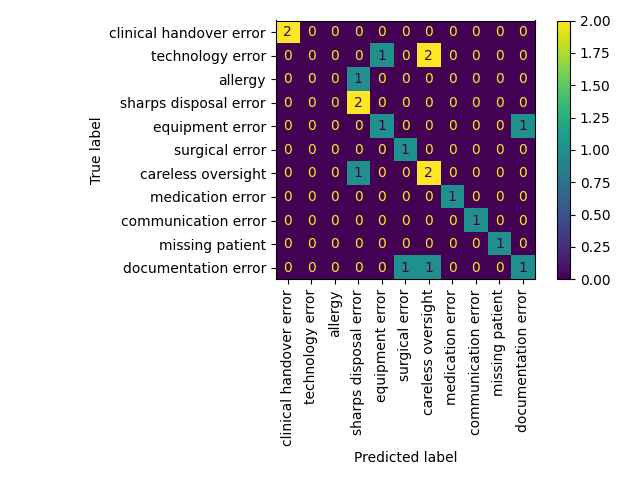
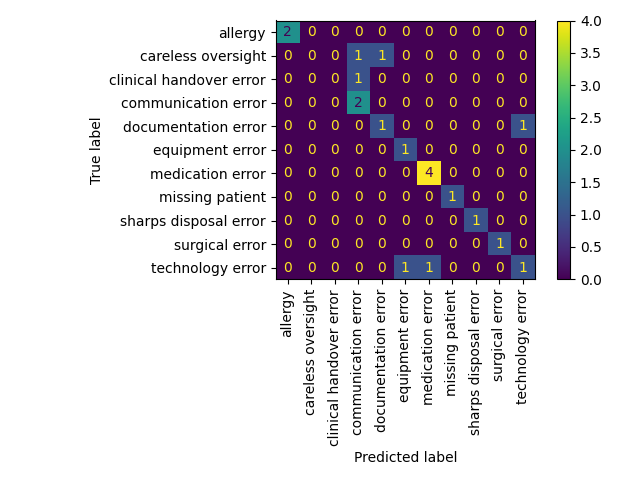
wrote concl

diff --git a/bart.py b/bart.py
@@ -1,6 +1,5 @@
 from transformers import pipeline
 import pandas as pd
-from helper import get_incident_types
 import matplotlib.pyplot as plt
 from sklearn import metrics
 
@@ -9,7 +8,7 @@ targets = list(pd.read_csv("dataset/targets.csv")["incident_type"])
 
 
 classifier = pipeline("zero-shot-classification", model="facebook/bart-large-mnli")
-labels = get_incident_types()
+labels = sorted(list(set(targets)))
 predictions = []
 confidence_true = []
 confidence_false = []
@@ -34,7 +33,7 @@ for idx, row in df.iterrows():
     print("---------\n")
 
 print("accuracy: ", metrics.accuracy_score(targets, predictions))
-cr = metrics.classification_report(targets, predictions, target_names=labels)
+cr = metrics.classification_report(targets, predictions, labels=labels)
 print(cr)
 
 confusion_matrix = metrics.confusion_matrix(targets, predictions)

diff --git a/README.md b/README.md
@@ -2,13 +2,24 @@
 
 ## About
 Using open-source large language models (LLMs) to summarize patient safety incident reports with two main goals:
-- extract key information about what caused the incident and
 - categorize the safety issue (e.g. medication errors or patient falls).
+- extract key information about what caused the incident and
+
+## Libraries Used
+- pandas: saving csv and loading into df
+- uuid: generating unique ids
+- transformers: loading hugging face models
+- matplotlib: plotting
+- sklearn: classification metrics
+- spacy: similarity
+
+## Limitations
+For this project, I was limitted by time constraints, data and the chosen models. Because of time contraints, I couldn't test out more models and chose what appeared to be the best. The dataset of incident reports was generated by ChatGPT and manually labelled. This lead to an uneven distribution of incdent types and the dataset may not necesarily reflect real-world incident reports. The models were from Hugging Face and pretrained on public data, they have not been fine-tuned on any safety incident report data leading to low confidence scores.
 
 ## Dataset
 The dataset contains 20 incident reports that were generated online with ChatGPT. Afterwards, incident cause and incident type labels were extracted manually.:
 - allergy: any incident that induced an allergic reaction
-- careless oversight: incidents in which a careless oversight in spite of correct signs in place caused harm to the patient
+- careless oversight: incidents occurred because of an accident or in spite of correct signs in place caused harm to the patient
 - clinical handover error: occurred during handover
 - communication error: when there has been a misunderstanding
 - documentation error
@@ -23,53 +34,61 @@ The dataset contains 20 incident reports that were generated online with ChatGPT
 ![word count](diagrams/word_counts.png)
 ![incident types](diagrams/incident_types.png)
 
-
-## Libraries Used
-- pandas
-- uuid
-- transformers
-- matplotlib
-- sklearn
-- spacy
-
-## Chosen Model Rationale
-TODO: reason behind why the models were chosen
-
 ## Models and Evaluation
 ### [bart-large-cnn](https://huggingface.co/facebook/bart-large-cnn)
 This zero-shot classifier is bart-large trained on MultiNLI dataset in which the hypothesis is "This text is about {label}". BART is a transformer model with a bidirectional encoder and autoregressive decoder - it is good for text comprehension and generation.
 
 Below is an evaluation of the results
 ```
-accuracy:  0.6
+accuracy:  0.7
                          precision    recall  f1-score   support
 
-         surgical error       1.00      1.00      1.00         2
-       medication error       0.00      0.00      0.00         3
-                allergy       0.00      0.00      0.00         1
+                allergy       1.00      1.00      1.00         2
+     careless oversight       0.00      0.00      0.00         2
+clinical handover error       0.00      0.00      0.00         1
     communication error       0.50      1.00      0.67         2
     documentation error       0.50      0.50      0.50         2
-  sharps disposal error       0.50      1.00      0.67         1
-        equipment error       0.40      0.67      0.50         3
-clinical handover error       1.00      1.00      1.00         1
-       technology error       1.00      1.00      1.00         1
-     careless oversight       1.00      1.00      1.00         1
-        missing patient       0.50      0.33      0.40         3
+        equipment error       0.50      1.00      0.67         1
+       medication error       0.80      1.00      0.89         4
+        missing patient       1.00      1.00      1.00         1
+  sharps disposal error       1.00      1.00      1.00         1
+         surgical error       1.00      1.00      1.00         1
+       technology error       0.50      0.33      0.40         3
 
-               accuracy                           0.60        20
-              macro avg       0.58      0.68      0.61        20
-           weighted avg       0.51      0.60      0.53        20
+               accuracy                           0.70        20
+              macro avg       0.62      0.71      0.65        20
+           weighted avg       0.61      0.70      0.64        20
 ```
 
 with confusion matrix
 
 ![bart cm](diagrams/bart_cm.png)
 
-and the following distribution of confidence scores
+
+
+Overall, the model showed a 0.7 accuracy with perfect f1 scores (f1=0) for allergy, missing patient, sharps disposal error and surgical error.
+
+The model showed it had limitted understanding of what labels such as `careless oversight`, `clinical handover` or `technology error` meant. Here are some examples showing this.
+
+`Careless oversight` (f1=0) was mislabelled as `communication error` or `documentation error`:
+```
+An inpatient undergoing chemotherapy was mistakenly served a meal containing grapefruit
+A patient in the emergency department was mistakenly catheterized despite a clear note stating no catheterization
+```
+
+`Technology error` mislabelled as `equipment error` or `medication error`:
+```
+1. Patient was denied their routine beta-blocker for three consecutive days due to an electronic prescription glitch.
+2. During an emergency code blue response, the defibrillator failed to power on.
+```
+On the other hand, it correctly labelled this following incident.
+```
+A power outage occurred during an endoscopy procedure.
+```
+
+Finally, the diagram below highlights the models' confidence
 
 ![bart confidence scores distribution](diagrams/bart_confidence_distribution.png)
-
-TODO: conclusion of evaluation
 
 ### [roberta-base-squad2](https://huggingface.co/deepset/roberta-base-squad2)
 Roberta-base-squad2 is fine-tuned on RoBERTa base using SQuAD2 dataset for extractive answer questioning. RoBERTa uses a transformer model petrained for Masked Language Modelling (MLM). Standford Question Answering Dataset (SQuAD) comprises of contexts, questions and answers crowdworked on wikipedia articles. The answers are a segment of text from the context or otherwise unanswerable (therefore meaning this model can handle unanswerable questions). This model is hallucination resistant meaning it only extracts what is given in the context.
@@ -78,6 +97,3 @@ Roberta-base-squad2 is fine-tuned on RoBERTa base using SQuAD2 dataset for extra
 ![roberta similarity vs confidence](diagrams/roberta_sim_conf.png)
 
 To evaluate, I used cosine similarity of the embedding vectors between actual and predicted. The results suggests that the model may be able to extract the correct information (high similarity score between 0.7-1), but it is not very confident (low confidence scores <0.4). This is likely because the training dataset is on wikipedia articles, lacking the domain knowledge of patient safety incident reports.
-
-## Next Steps
-- larger dataset
